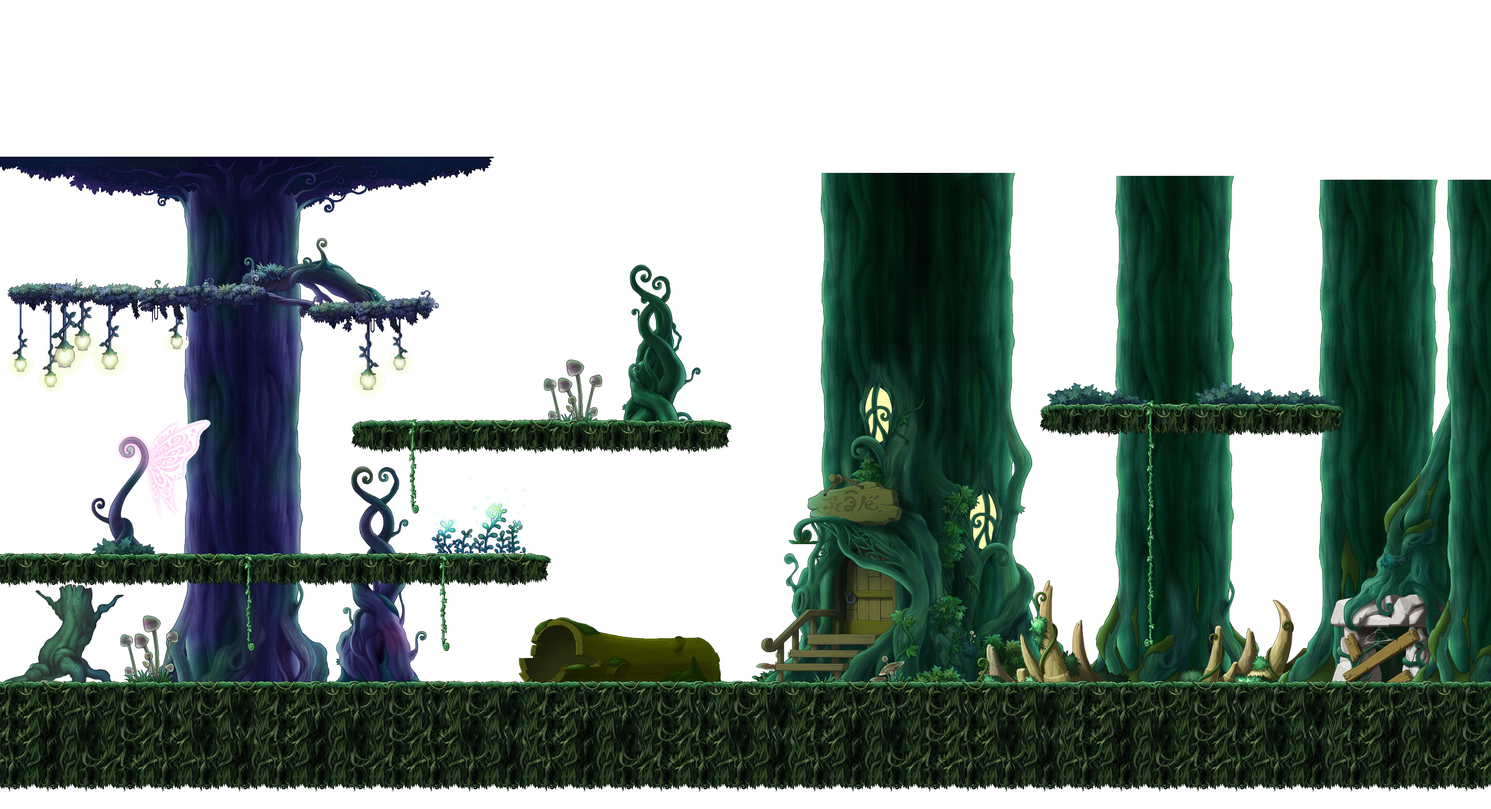
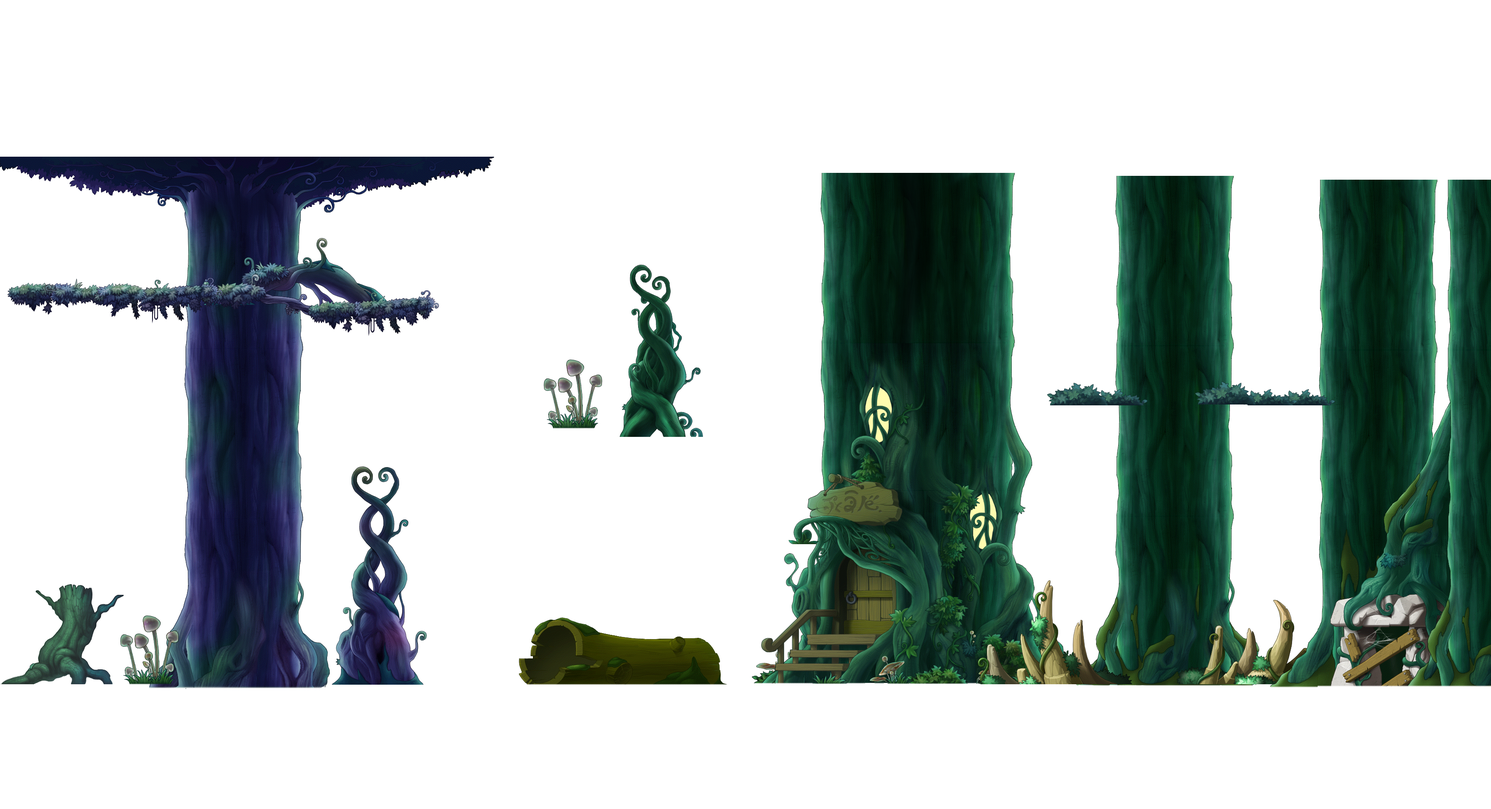
添加地面类

diff --git a/src/me/lokka/maplestory/client/MapleStoryClient.java b/src/me/lokka/maplestory/client/MapleStoryClient.java
@@ -62,11 +62,27 @@ public class MapleStoryClient extends MapleStoryFrame {
         }
     }
 
+    public List<Ground> groundList = new CopyOnWriteArrayList<>();
+    {
+        Ground ground_1 = new Ground(this, ImageUtil.getValue("ground").get(0), 0, 1598);
+        groundList.add(ground_1);
+        Ground ground_2 = new Ground(this, ImageUtil.getValue("ground").get(1), 0, 1298);
+        groundList.add(ground_2);
+        Ground ground_2_right = new Ground(this, ImageUtil.getValue("ground").get(2), 2440, 946);
+        groundList.add(ground_2_right);
+        Ground ground_3 = new Ground(this, ImageUtil.getValue("ground").get(3), 824, 985);
+        groundList.add(ground_3);
+    }
+
     @Override
     public void paint(Graphics g) {
         Image canvas = ImageUtil.getValue("background").get(1);
         g.drawImage(canvas, 0, Constant.GAME_HEIGHT - canvas.getHeight(null), null);
         bg.draw(g);
+
+        for (Ground ground : groundList) {
+            ground.draw(g);
+        }
 
         Font f = g.getFont();
         g.setFont(new Font("Times New Roman", Font.BOLD, 23));
@@ -75,7 +91,7 @@ public class MapleStoryClient extends MapleStoryFrame {
 //        g.drawString("Hero.y: " + hero.y, 200, 150);
 //        g.drawString("Hero.action: " + hero.action, 200, 180);
 //        g.drawString("Background.x: " + bg.x, 200, 210);
-        g.drawString("Item.size: " + itemList.size(), 200, 240);
+//        g.drawString("Item.size: " + itemList.size(), 200, 240);
         g.drawLine(Constant.GAME_WIDTH / 2, 0, Constant.GAME_WIDTH / 2, Constant.GAME_HEIGHT);
 //        g.setFont(f);
 

diff --git a/src/me/lokka/maplestory/entity/Ground.java b/src/me/lokka/maplestory/entity/Ground.java
@@ -1,0 +1,54 @@
+package me.lokka.maplestory.entity;
+
+import me.lokka.maplestory.client.MapleStoryClient;
+import me.lokka.maplestory.util.ImageUtil;
+
+import java.awt.*;
+
+/**
+ * @Description 地面类
+ * @Author: kainzhang (张健)
+ * @Date: 2020/12/9 8:32 AM
+ */
+public class Ground extends AbstractMapleStoryObject {
+
+    public Ground() {
+
+    }
+
+    public Ground(MapleStoryClient msc, Image img, int x, int y) {
+        this.msc = msc;
+        this.x = x;
+        this.y = y;
+        this.img = img;
+        this.width = img.getWidth(null);
+        this.height = img.getHeight(null);
+    }
+
+    public Ground(MapleStoryClient msc, Image img, int x, int y, int width, int height) {
+        this.msc = msc;
+        this.x = x;
+        this.y = y;
+        this.img = img;
+        this.width = width;
+        this.height = height;
+    }
+
+    @Override
+    public Rectangle getRectangle() {
+        return null;
+    }
+
+
+    @Override
+    public void move() {
+    }
+
+    @Override
+    public void draw(Graphics g) {
+        move();
+        g.drawImage(img, msc.bg.x + x, msc.bg.y + y, null);
+        g.setColor(Color.WHITE);
+        g.drawRect(msc.bg.x + x, msc.bg.y + y, width, height);
+    }
+}

diff --git a/src/me/lokka/maplestory/util/ImageUtil.java b/src/me/lokka/maplestory/util/ImageUtil.java
@@ -30,6 +30,16 @@ public class ImageUtil {
         images.put("background", background);
 
 
+        /* Ground Start */
+        List<Image> ground = new CopyOnWriteArrayList<>();
+        ground.add(MapleStoryUtil.getImage("ground/ground_1"));
+        ground.add(MapleStoryUtil.getImage("ground/ground_2"));
+        ground.add(MapleStoryUtil.getImage("ground/ground_2_right"));
+        ground.add(MapleStoryUtil.getImage("ground/ground_3"));
+        images.put("ground", ground);
+        /* Ground End */
+
+
         /* RedHair Start */
         List<Image> redHair = new CopyOnWriteArrayList<>();
 
